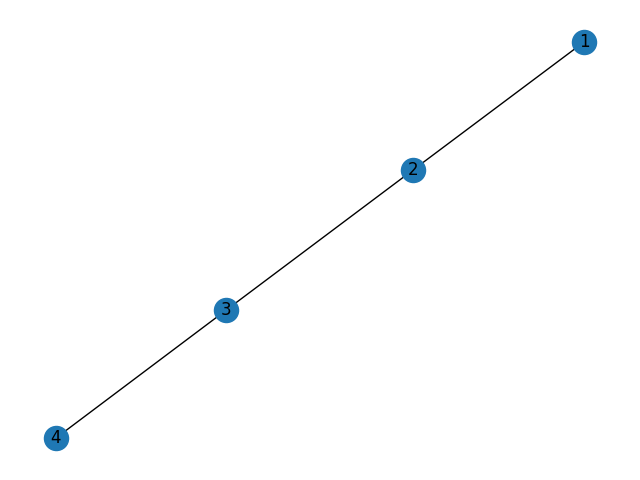
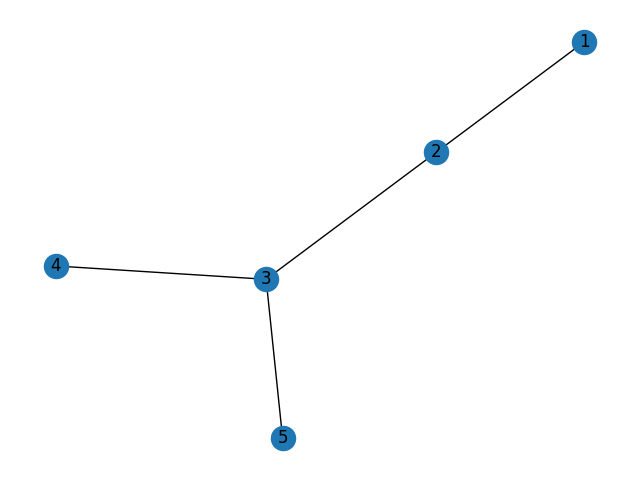
some adjustments

diff --git a/controller/codeExecution.controller.js b/controller/codeExecution.controller.js
@@ -1,7 +1,3 @@
-
-
-
-const { exec } = require('child_process');
 const { PythonShell } = require('python-shell');
 const path = require('path');
 const fs = require('fs');
@@ -15,7 +11,7 @@ const getCodeExecutionPage = (req, res) => {
 
 
 function executeCode(req, res) {
-    console.log('Received code:', req.body.code); // Log received code
+    console.log('Received code:', req.body.code); 
     const code = req.body.code;
 
     if (!code) {
@@ -23,8 +19,7 @@ function executeCode(req, res) {
         return res.status(400).json({ error: 'No code provided in the request.' });
     }
 
-    const tempFile = path.join(__dirname, 'temp_code.py'); // Temp file to save code
-
+    const tempFile = path.join(__dirname, 'python.py'); 
     // Write the code to a temporary Python file
     fs.writeFile(tempFile, code, (err) => {
         if (err) {

diff --git a/resources/html_files/codeExecution.html b/resources/html_files/codeExecution.html
@@ -112,7 +112,7 @@
                 console.log('Code sent to backend for execution:', code);
 
                 sendCodeToBackend(code);
-        
+
                 loadImage();
             });
 
@@ -136,8 +136,7 @@
                 const outputElement = document.getElementById('output');
                 outputElement.innerHTML = '';
 
-                
-                const imageUrl = './graph.png' ;
+                const imageUrl = `http://localhost:3007/graph.png?t=${Date.now()}`;
 
                 const img = document.createElement('img');
                 img.src = imageUrl;
@@ -149,6 +148,7 @@
 
                 outputElement.appendChild(img);
             }
+
 
 
 

diff --git a/app.js b/app.js
@@ -31,7 +31,7 @@ app.use('/exercise_html_files', express.static(path.join(__dirname, './resources
 app.use('/image', express.static(path.join(__dirname, './resources/image')));
 app.use('/videos', express.static(path.join(__dirname, './resources/videos')));
 app.use('/styles', express.static(path.join(__dirname, './resources/styles')));
-app.use(express.static(path.join(__dirname)));
+
 
 app.use(express.json());
 app.use(express.urlencoded({ extended: true }));

diff --git a/controller/python.py b/controller/python.py
@@ -2,6 +2,6 @@ import networkx as nx
 import matplotlib.pyplot as plt
 
 G = nx.Graph()
-G.add_edges_from([(1, 2),(3,1) ,(2, 3), (3, 4)])
+G.add_edges_from([(1, 2), (3,5),(2, 3), (3, 4)])
 nx.draw(G, with_labels=True)
 plt.savefig("graph.png")
